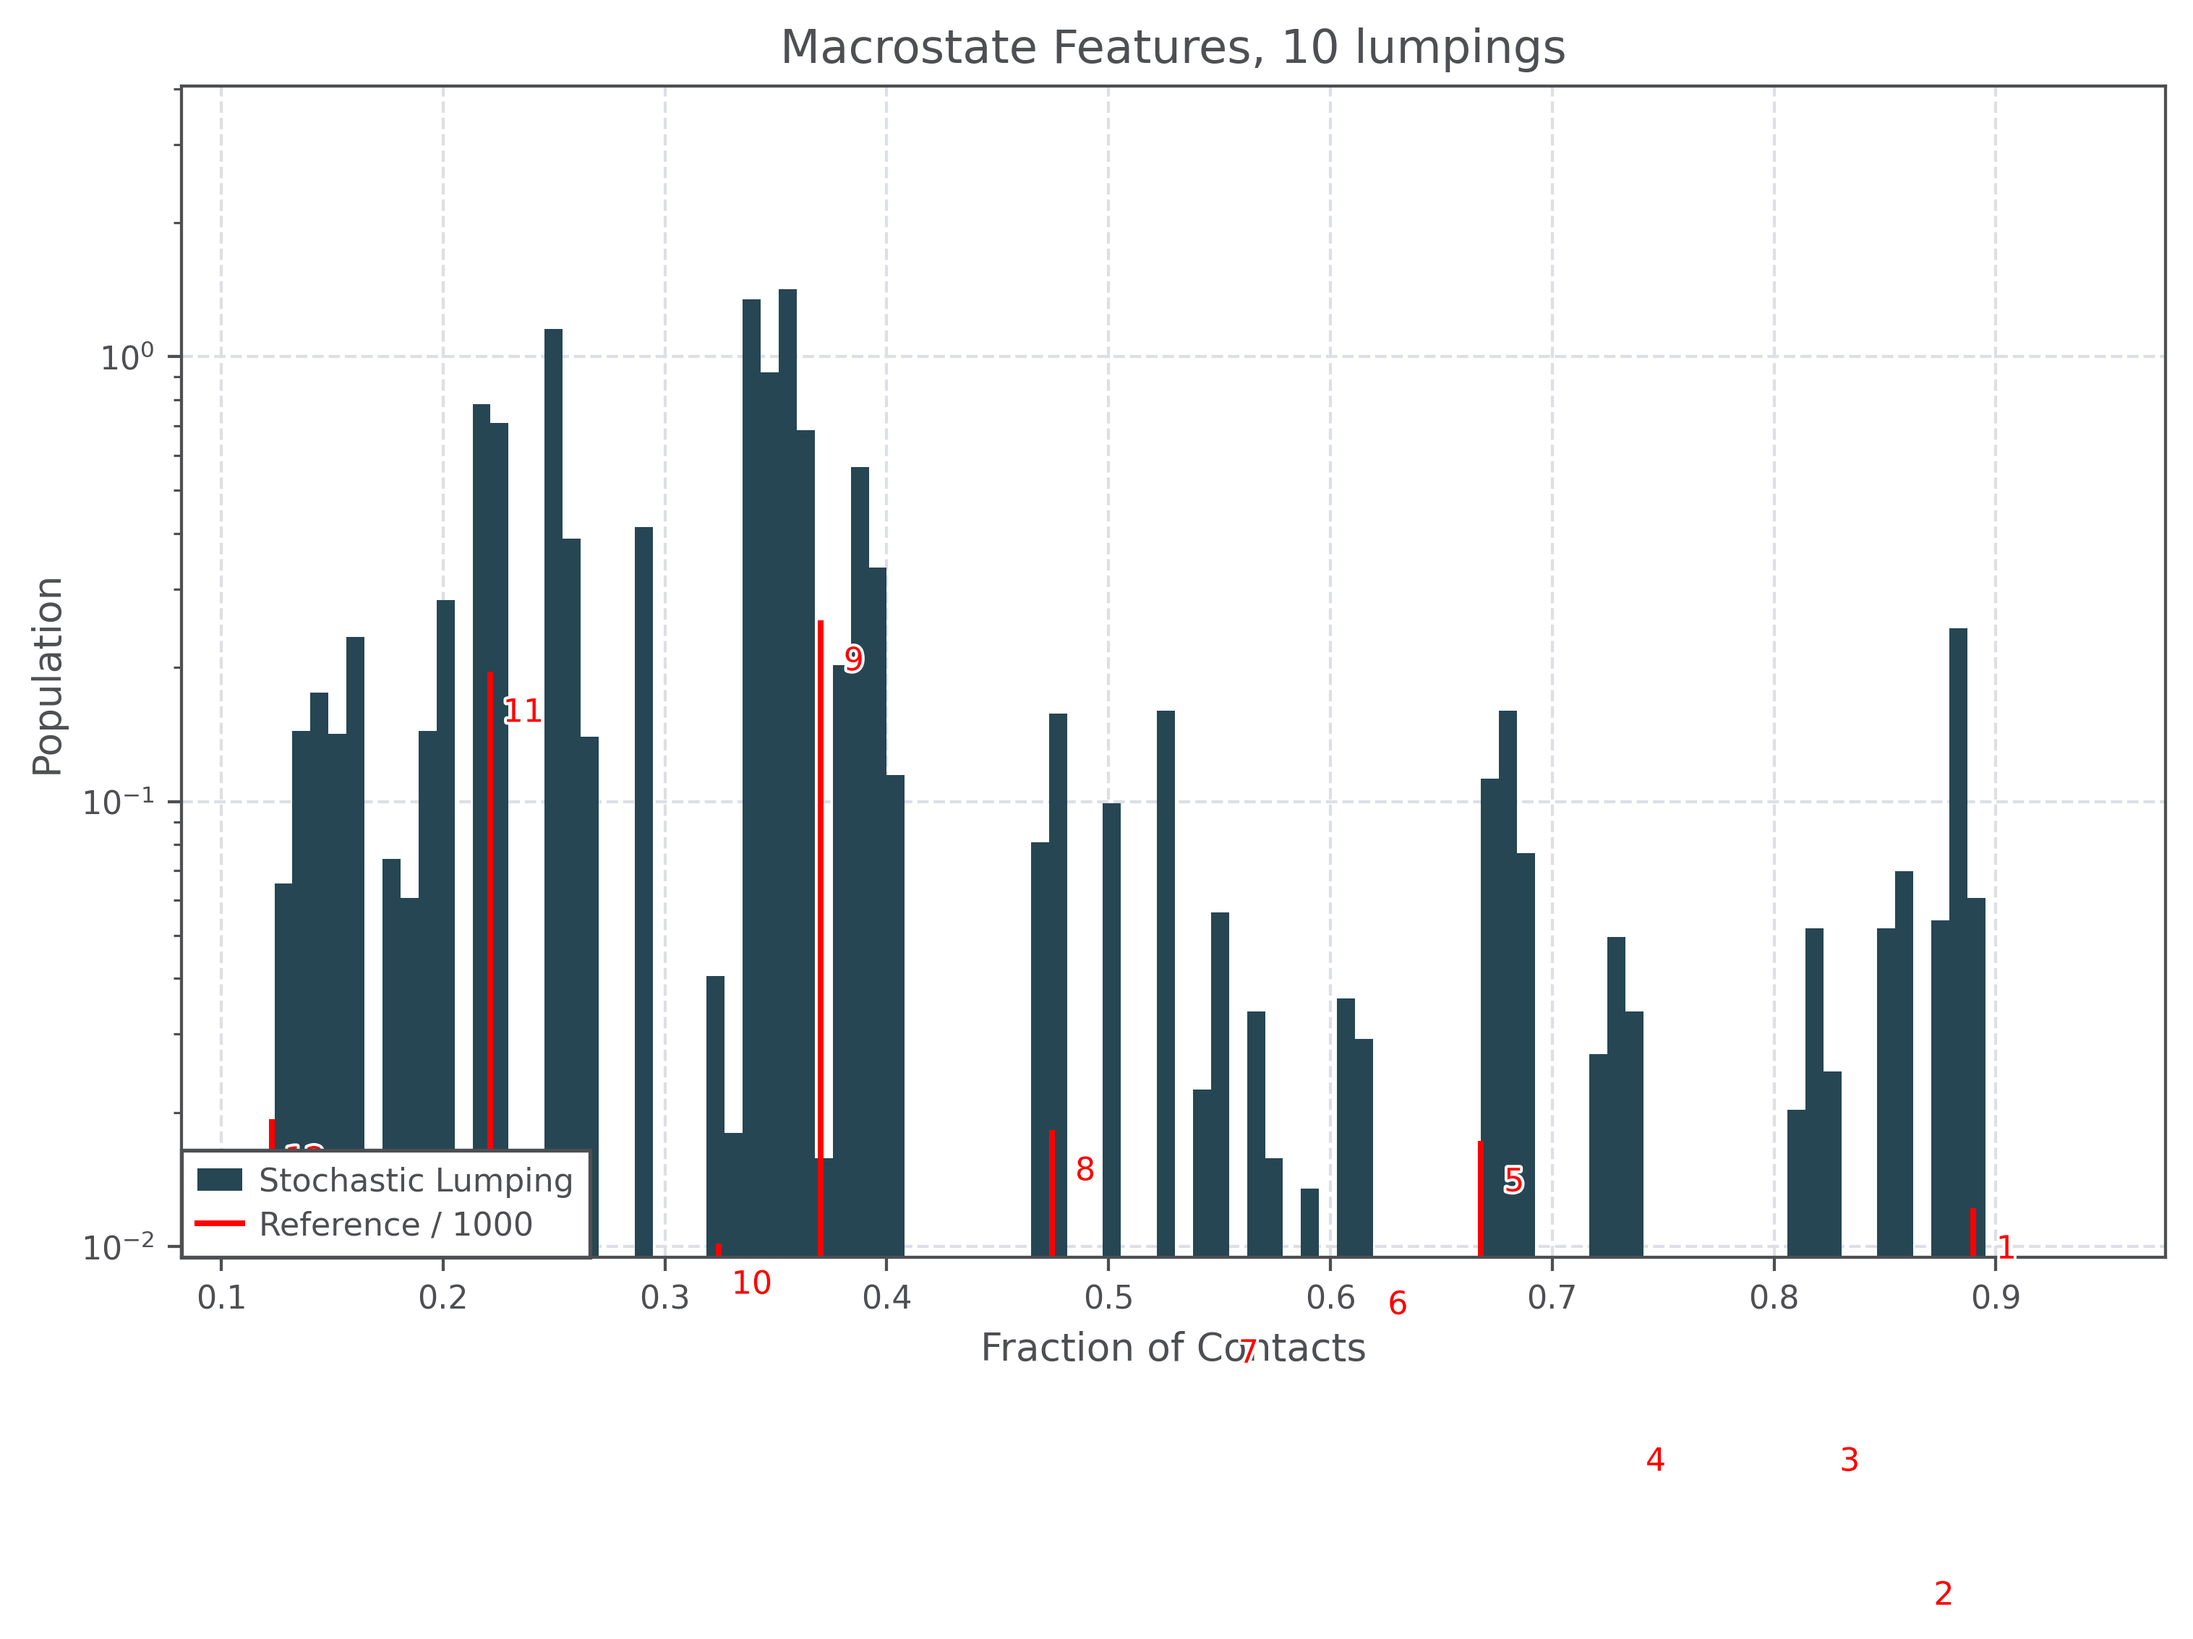
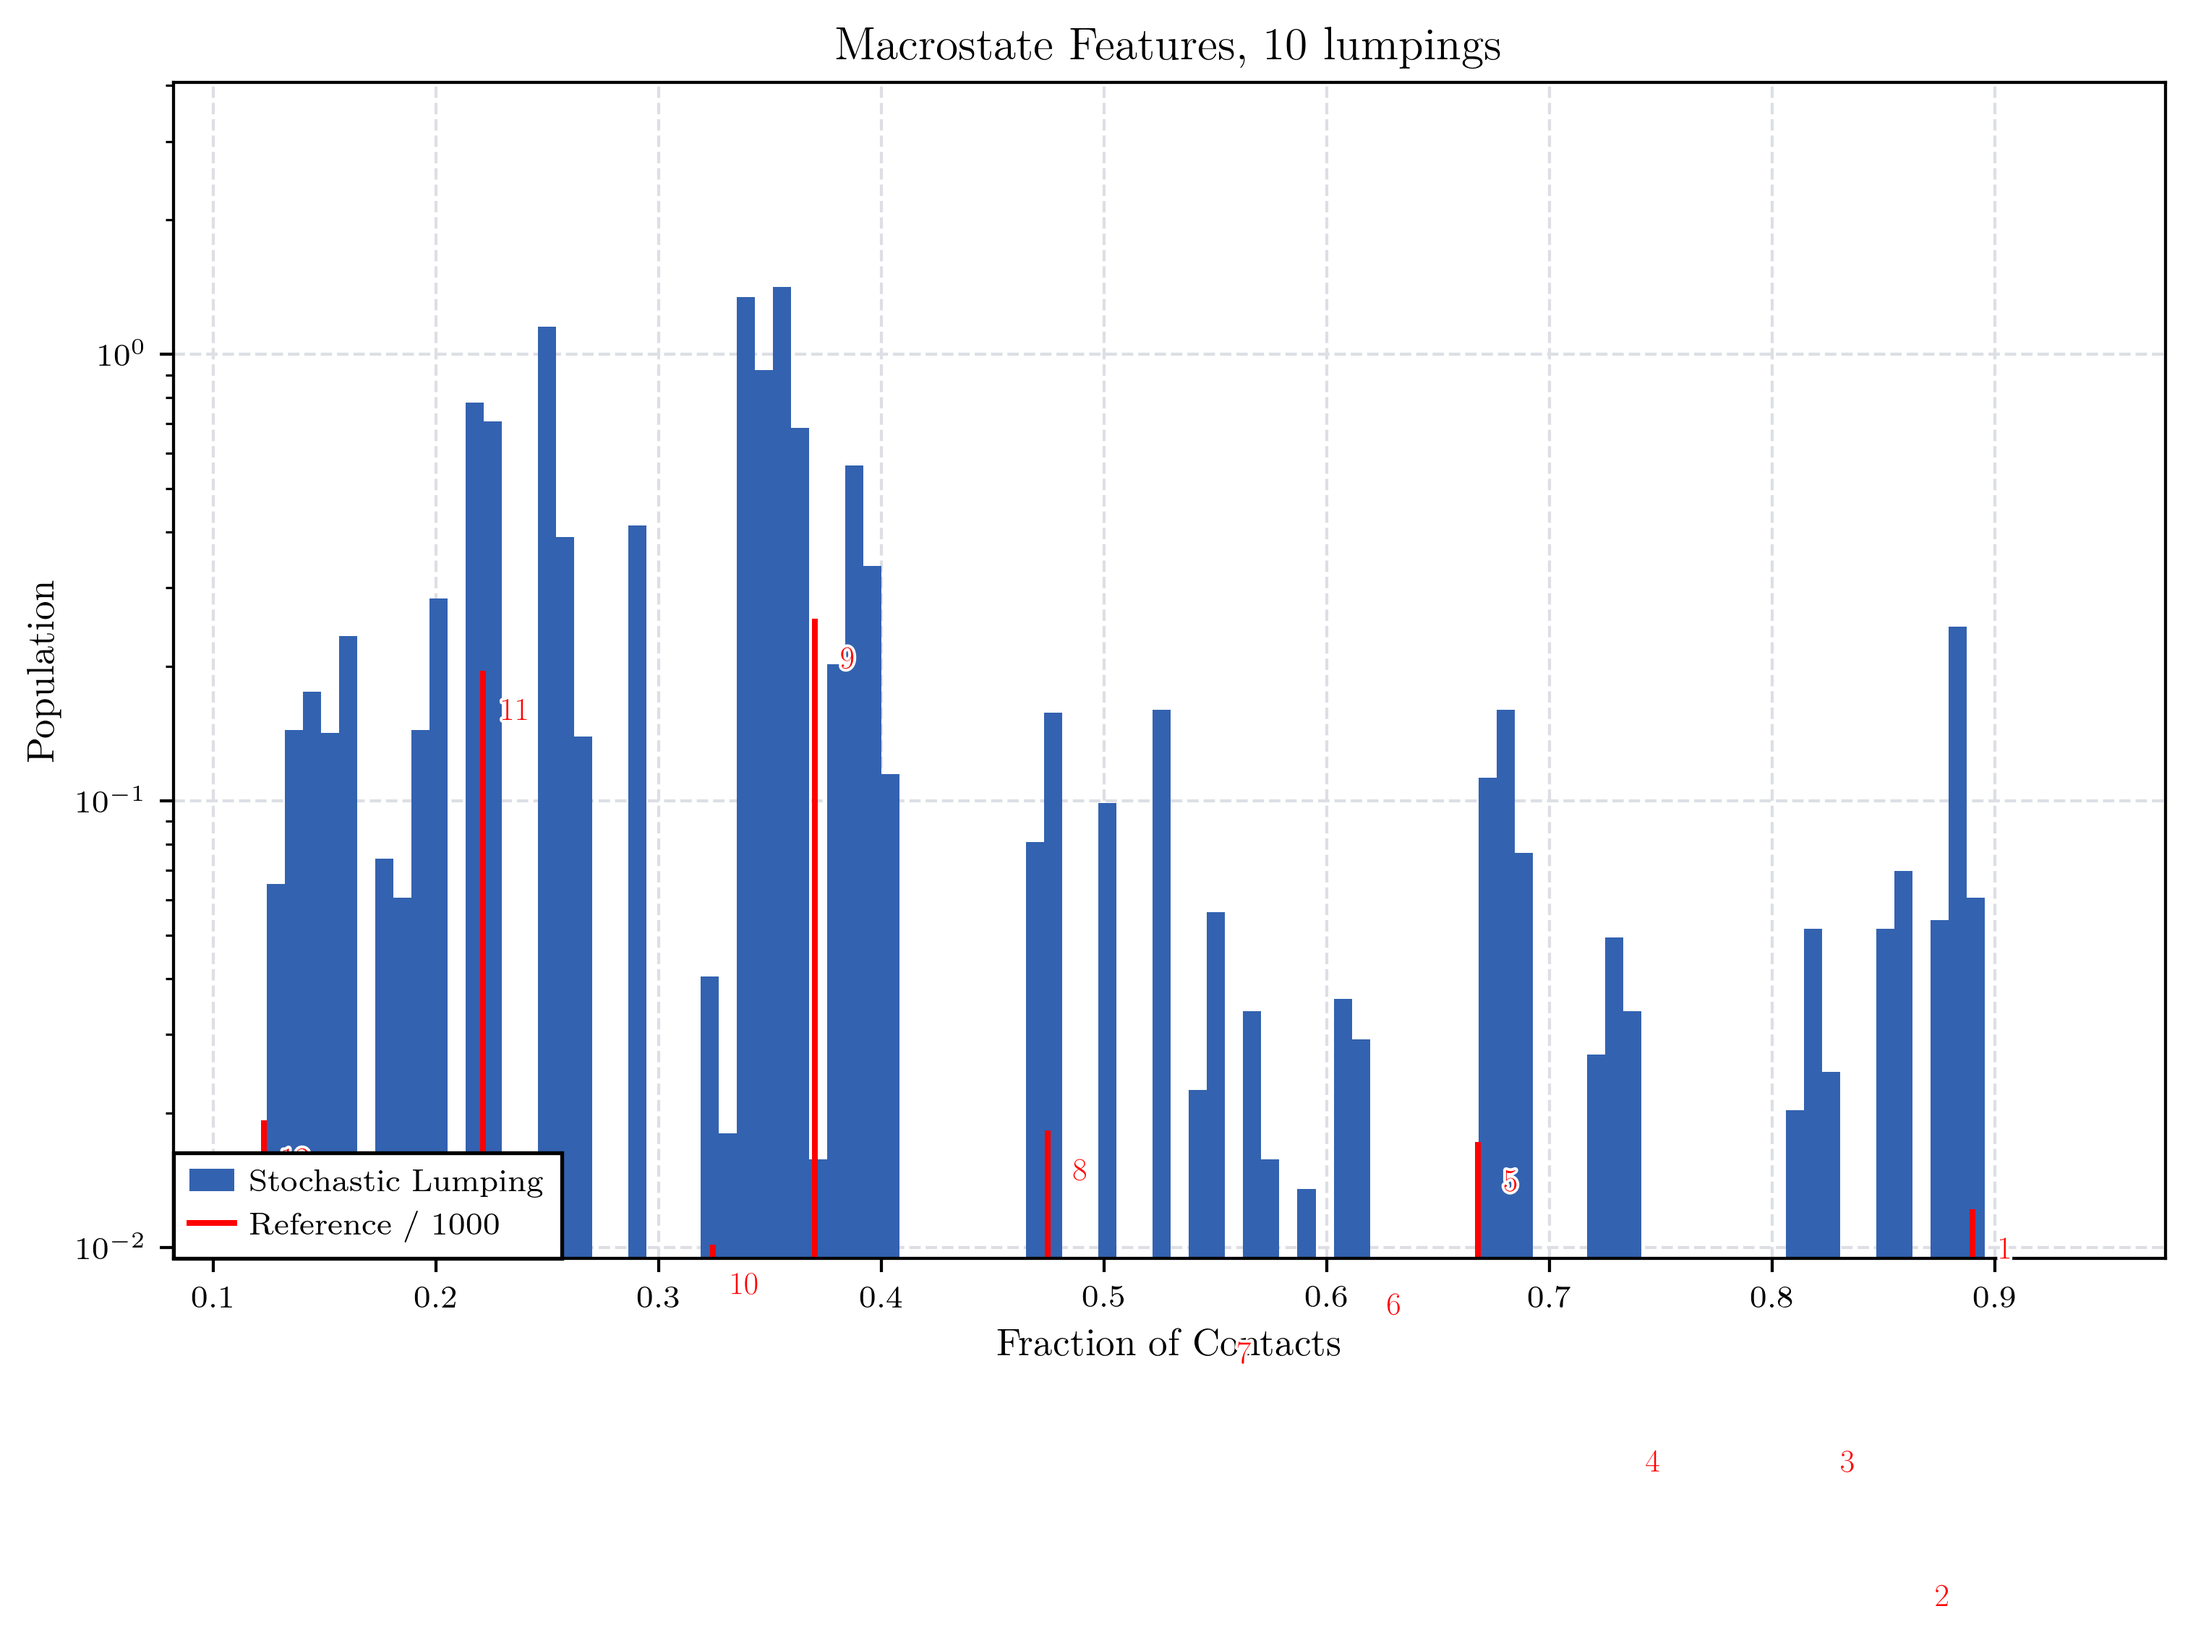
fix: set Latin Modern Roman font after pplt.use_style; regenerate all doc plots with real data for ck_test

diff --git a/generate_doc_plots.py b/generate_doc_plots.py
@@ -1,0 +1,69 @@
+#!/usr/bin/env python3
+"""Regenerate all docs/assets/plots/ figures."""
+
+import subprocess
+import sys
+from pathlib import Path
+
+ROOT = Path(__file__).parent
+OUT = ROOT / "docs/assets/plots"
+TEST_HP35 = ROOT / "tests/data/HP35"
+TEST_PDZ3 = ROOT / "tests/data/PDZ3"
+REAL_HP35_CFG = Path("/tmp/hp35_real_config.yml")   # patched copy with absolute source path
+REAL_HP35_Z   = Path("/home/felixg/Documents/uni/MPP/data/HP35/results/t/Z.npy")
+REAL_PDZ3_CFG = Path("/tmp/pdz3_real_config.yml")   # patched copy with absolute source path
+
+def run(args, cwd=None):
+    cmd = [sys.executable, "-m", "MPP.run"] + [str(a) for a in args]
+    print("Running:", " ".join(cmd))
+    r = subprocess.run(cmd, capture_output=True, text=True, cwd=cwd)
+    if r.returncode != 0:
+        print("STDOUT:", r.stdout[-500:] if r.stdout else "")
+        print("STDERR:", r.stderr[-500:] if r.stderr else "")
+        raise RuntimeError(f"Command failed (exit {r.returncode})")
+    print("  OK")
+
+HP35_CFG   = TEST_HP35 / "input/config.yml"
+HP35_Z_T   = TEST_HP35 / "expected_output/t/Z.npy"
+HP35_Z_KL  = TEST_HP35 / "expected_output/kl/Z.npy"
+HP35_STOCH_CFG = TEST_HP35 / "input/config_stochastic.yml"
+HP35_Z_STOCH   = TEST_HP35 / "expected_output/t_stochastic/Z.npy"
+PDZ3_CFG   = TEST_PDZ3 / "input/config.yml"
+PDZ3_Z_KL  = TEST_PDZ3 / "expected_output/kl/Z.npy"
+# rmsd/delta_rmsd need real topology+trajectory; use real PDZ3 data, Z computed to /tmp
+REAL_PDZ3_Z_KL = Path("/tmp/pdz3_real_kl_Z.npy")
+
+plots = [
+    # (config, d, g, Z, kind, outname, extra_args)
+    (HP35_CFG,        "T",  "none", HP35_Z_T,    "dendrogram",   "dendrogram.png",   []),
+    (HP35_CFG,        "T",  "none", HP35_Z_T,    "timescales",   "timescales_t.png", []),
+    (HP35_CFG,        "KL", "none", HP35_Z_KL,   "timescales",   "timescales_kl.png",[]),
+    (HP35_CFG,        "KL", "none", HP35_Z_KL,   "sankey",       "sankey.png",       []),
+    (HP35_CFG,        "T",  "none", HP35_Z_T,    "contacts",     "contacts.png",     []),
+    (HP35_CFG,        "T",  "none", HP35_Z_T,    "macrotraj",    "macrotraj.png",    []),
+    # ck_test uses the real HP35 system; config uses source: relative to project root
+    # so run from the real HP35 project root with an absolute output path
+    ("REAL_HP35",     "T",  "none", REAL_HP35_Z, "ck_test",      "ck_test.png",      []),
+    # rmsd/delta_rmsd need real topology+trajectory; use real PDZ3 data entirely
+    (REAL_PDZ3_CFG,   "KL", "none", REAL_PDZ3_Z_KL, "rmsd",      "rmsd.png",         []),
+    (REAL_PDZ3_CFG,   "KL", "none", REAL_PDZ3_Z_KL, "delta_rmsd","delta_rmsd.png",   []),
+    (HP35_CFG,        "T",  "none", HP35_Z_T,    "state_network","state_network.png",[]),
+    (HP35_CFG,        "T",  "none", HP35_Z_T,    "transition_matrix","transition_matrix.png",[]),
+    (HP35_CFG,        "T",  "none", HP35_Z_T,    "transition_time",  "transition_time.png",  []),
+    (HP35_STOCH_CFG,  "T",  "none", HP35_Z_STOCH,"stochastic_state_similarity","stochastic_state_similarity.png",[]),
+    (HP35_STOCH_CFG,  "T",  "none", HP35_Z_STOCH,"relative_implied_timescales","relative_implied_timescales.png",[]),
+    (HP35_STOCH_CFG,  "T",  "none", HP35_Z_STOCH,"macro_feature","macro_feature.png",[]),
+]
+
+REAL_HP35_ROOT = Path("/home/felixg/Documents/uni/MPP")
+
+for cfg, d, g, z, kind, outname, extra in plots:
+    out = OUT / outname
+    if cfg == "REAL_HP35":
+        args = [REAL_HP35_CFG, d, g, "-Z", z, "-p", kind, "-o", out] + extra
+        run(args)
+    else:
+        args = [cfg, d, g, "-Z", z, "-p", kind, "-o", out] + extra
+        run(args)
+
+print("\nAll plots generated successfully.")

diff --git a/src/MPP/plot.py b/src/MPP/plot.py
@@ -29,8 +29,8 @@ from . import utils
 from .sankey_gap import sankey
 from .graph import draw_knetwork
 
-plt.rcParams["font.family"] = ["Latin Modern Roman"]
 pplt.use_style(true_black=True)
+plt.rcParams["font.family"] = ["Latin Modern Roman"]
 
 ### DENDROGRAM ###############################################################
 
